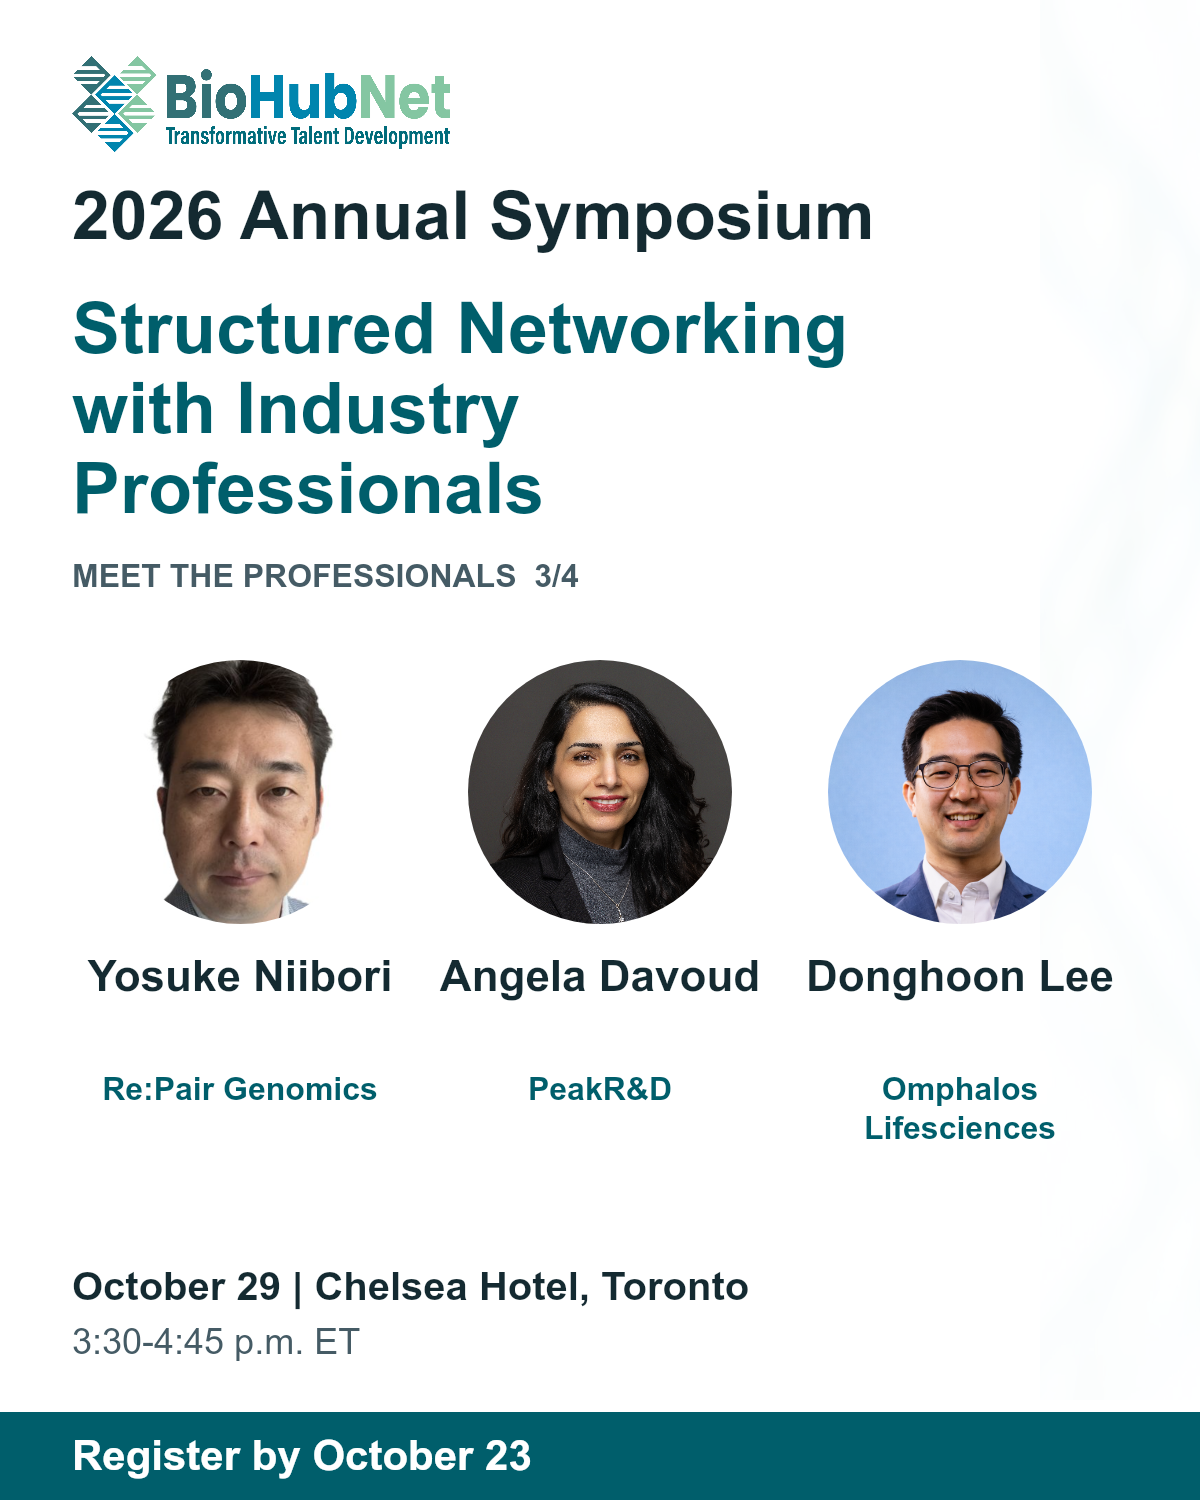
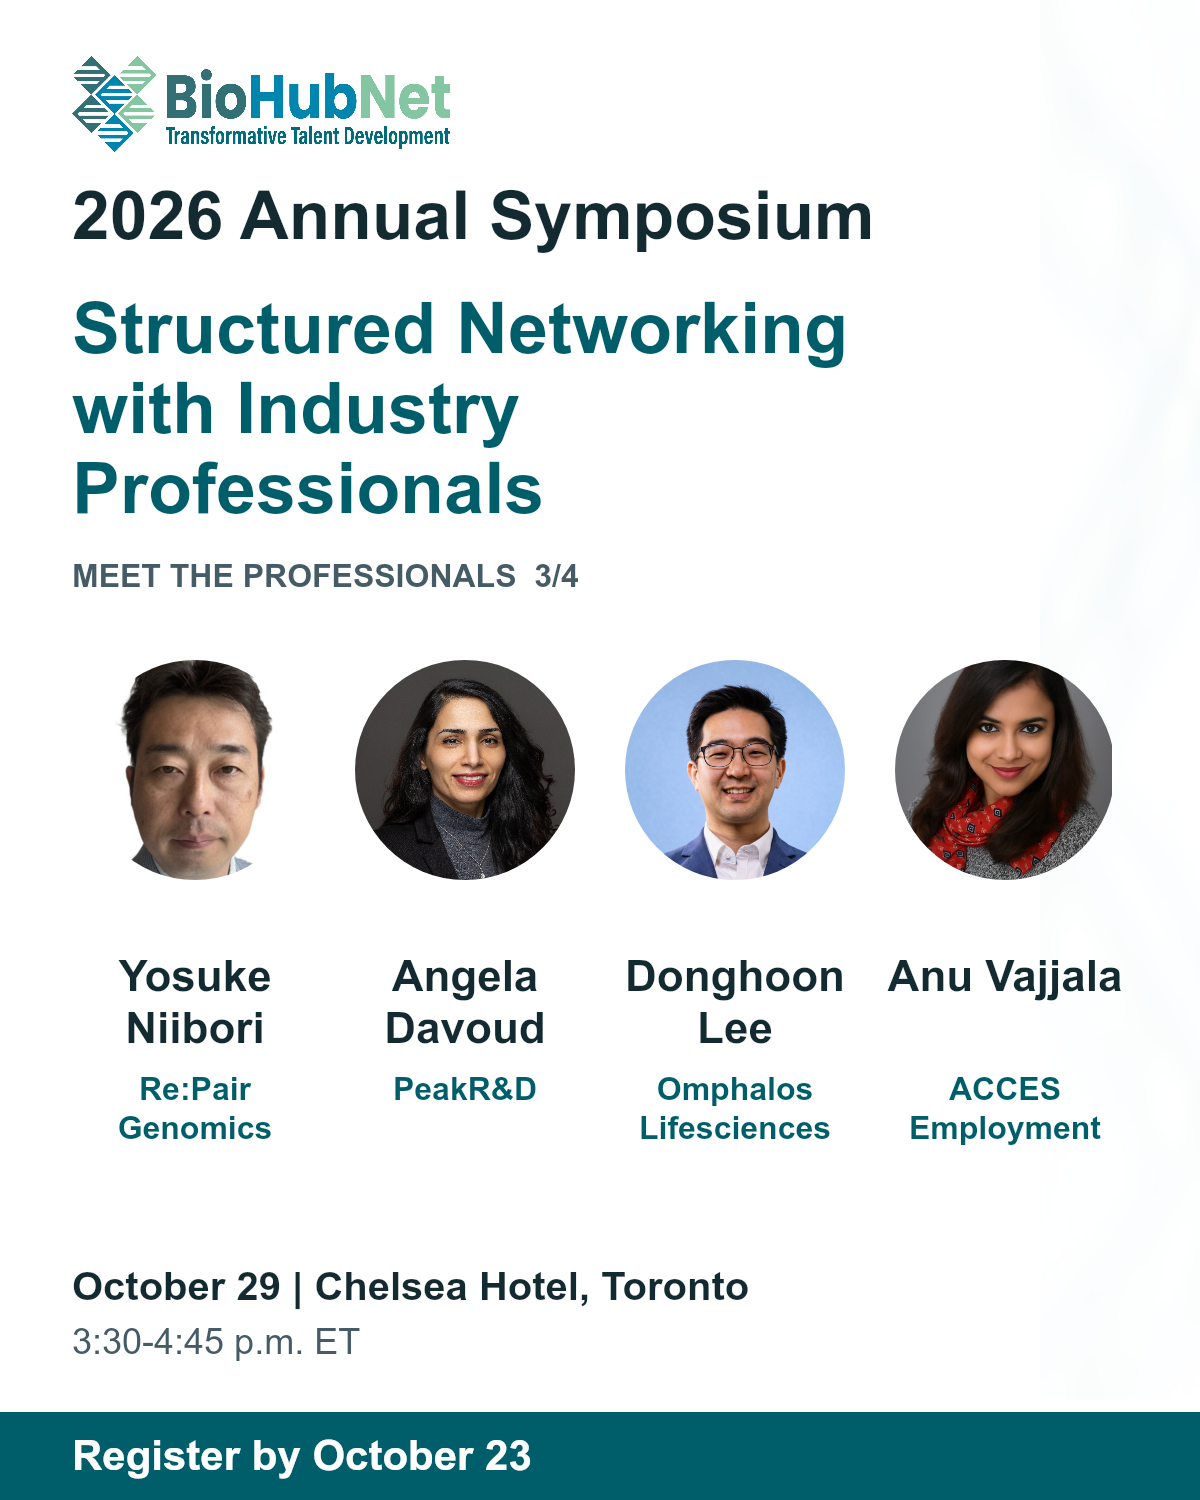
Refresh unpublished networking highlight for current roster

Changed region(s): [[0.0617, 0.4293, 0.9558, 0.7667]]

diff --git a/src/lib/social/symposium-networking-posts.ts b/src/lib/social/symposium-networking-posts.ts
@@ -1,4 +1,4 @@
-// Published networking roster checked on October 20, 2026. No public posting is triggered here.
+// Published networking roster checked on October 21, 2026. No public posting is triggered here.
 export const NETWORKING_GROUPS = [
   {
     number: 1,
@@ -25,14 +25,15 @@ export const NETWORKING_GROUPS = [
   },
   {
     number: 3,
-    hook: "An idea, a startup, a funding strategy: where do you start?",
-    invitation: "Talk with founders and innovation professionals at Structured Networking with Industry Professionals during BioHubNet's 2026 Annual Symposium.",
+    hook: "Research, entrepreneurship and your next industry connection: where do you start?",
+    invitation: "Meet founders and talent-development professionals at Structured Networking with Industry Professionals during BioHubNet's 2026 Annual Symposium.",
     people: [
       { name: "Yosuke Niibori", title: "Chief Scientific Officer", company: "Re:Pair Genomics", graphicCompany: "Re:Pair Genomics" },
       { name: "Angela Davoud", title: "Co-founder & Chief Growth Officer", company: "PeakR&D", graphicCompany: "PeakR&D" },
       { name: "Donghoon Lee", title: "CEO", company: "Omphalos Lifesciences", graphicCompany: "Omphalos Lifesciences" },
+      { name: "Anu Vajjala", title: "Employer Liaison", company: "ACCES Employment", graphicCompany: "ACCES Employment" },
     ],
-    closing: "Explore the move from research into biotechnology entrepreneurship, how funding fits into an innovation strategy and what it takes to work across disciplines. Bring your questions, not a polished pitch.",
+    closing: "Explore biotechnology entrepreneurship, funding strategy and the connections that support industry careers. Bring your questions, not a polished pitch.",
   },
   {
     number: 4,
@@ -54,7 +55,7 @@ export const SYMPOSIUM_NETWORKING_POSTS = NETWORKING_GROUPS.map((group) => ({
   workshopSlug: null,
   suggestedDate: `2026-10-${19 + group.number}T13:00:00Z`,
   sourceUrl: "https://biohubnet.ca/2026-annual-symposium/",
-  assetUrl: `https://bhn-training-platform.vercel.app/social/symposium-2026/networking-${group.number}.png?v=20261020-roster14`,
+  assetUrl: `https://bhn-training-platform.vercel.app/social/symposium-2026/networking-${group.number}.png?v=${group.number === 3 ? "20261021-roster15" : "20261020-roster14"}`,
   graphicBrief: `BioHubNet logo, 2026 Annual Symposium, full Structured Networking with Industry Professionals heading. Original circular headshots with no retouching or color changes: ${group.people.map((p) => p.name).join(", ")}. Names and organizations only on the graphic; professional titles in the caption. Spacious layout, subtle glass edge, October 29 | Toronto | Register now. Recheck the current networking lineup before approving.`,
   body: `${group.hook}
 

diff --git a/tests/unit/symposium-networking-posts.test.ts b/tests/unit/symposium-networking-posts.test.ts
@@ -5,10 +5,11 @@ import { NETWORKING_GROUPS, SYMPOSIUM_NETWORKING_POSTS } from "../../src/lib/soc
 import { withSocialTags } from "../../src/lib/social/tags";
 import { DEFAULT_SOCIAL_ORDER, readSocialOrder } from "../../src/lib/social/order";
 
-test("all 14 current networking professionals appear once, in groups of at most four", () => {
-  assert.deepEqual(NETWORKING_GROUPS.map((g) => g.people.length), [4, 3, 3, 4]);
+test("all 15 current networking professionals appear once, in groups of at most four", () => {
+  assert.deepEqual(NETWORKING_GROUPS.map((g) => g.people.length), [4, 3, 4, 4]);
   const names = NETWORKING_GROUPS.flatMap((g) => g.people.map((p) => p.name));
-  assert.equal(new Set(names).size, 14);
+  assert.equal(new Set(names).size, 15);
+  assert.ok(NETWORKING_GROUPS[2].people.some((p) => p.name === "Anu Vajjala"));
   assert.ok(names.includes("Melissa E Anders"));
   assert.ok(!names.some((name) => /Czaniecki|Shivali/.test(name)));
   for (const post of SYMPOSIUM_NETWORKING_POSTS) {
